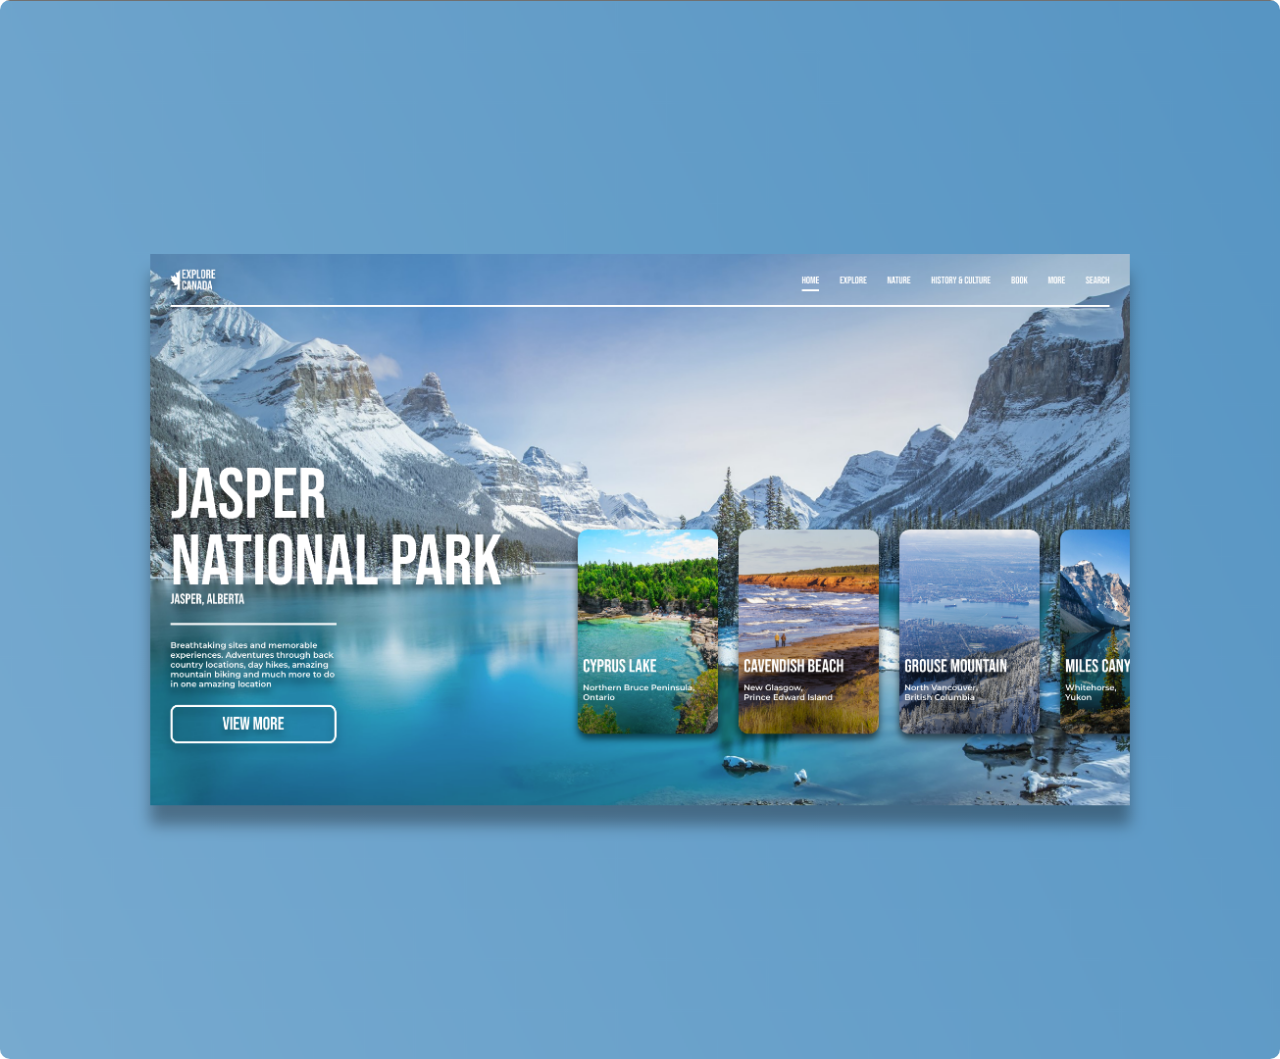
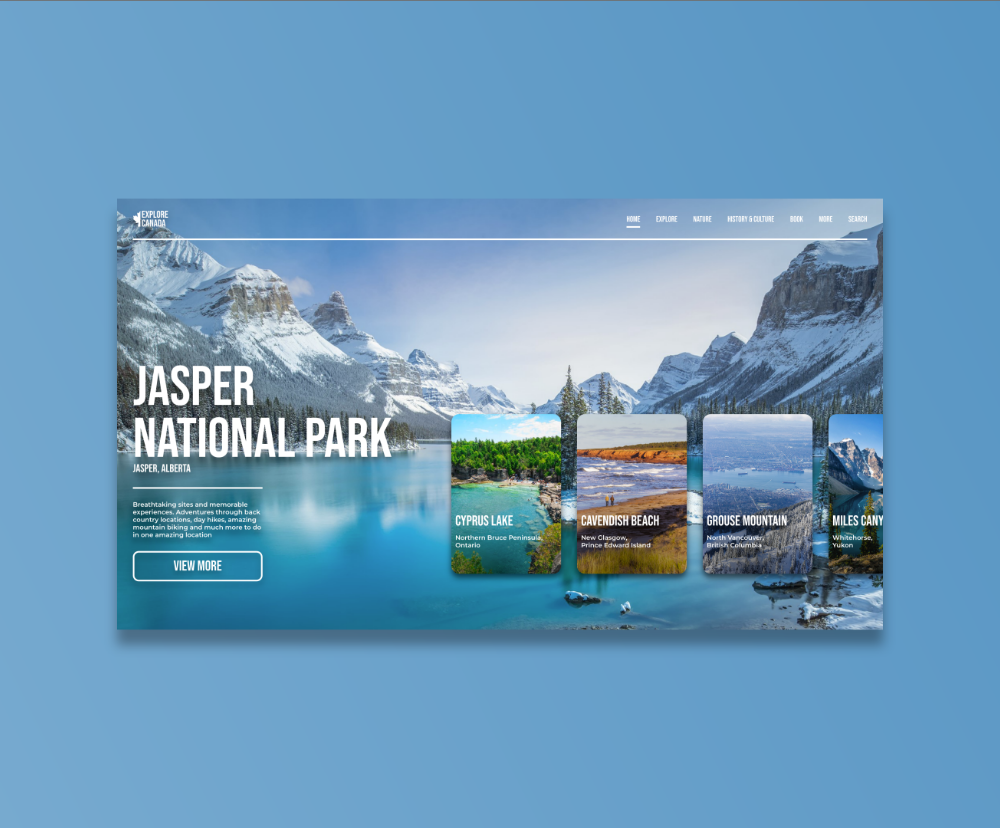
adds changes to images and all grid layouts

diff --git a/css/main.css b/css/main.css
@@ -7,7 +7,7 @@
 /* defines all text properties */
 h1{
 	margin-top: 3rem;
-    font-size: 1.3rem;
+    font-size: 1.25rem;
     font-weight: bold;
 	color: #2A2A2A;
 }
@@ -17,7 +17,7 @@ h2{
 	color: #2A2A2A;
 }
 p{
-    font-size: .8rem;
+    font-size: .0.875rem;
     line-height: normal;
 	color: #2A2A2A;
 }
@@ -39,13 +39,18 @@ body{
 	max-width: 10%;
 }
 
-
+.wrapper{
+	margin: 0 auto;
+    width: 95%;
+    background-color: transparent;
+}
 /* styles responsive images */
 img{
     max-width: 100%;
 }
 .c-img{
 	margin-top: 4rem;
+	border-radius: 0.2rem;
 	filter: drop-shadow(.4rem .4rem 0rem #00000016);
 }
 .desktop-arrow{
@@ -53,11 +58,10 @@ img{
 }
 .portfolio-content{
 	display: grid;
-	grid-auto-rows: 1fr
+	grid-auto-rows: 1fr;
 }
 .g-content{
-	font-size: .8rem;
-	margin-top: 2rem;
+	margin-top: 4rem;
 	background-color: #ffffff;
 	border-style: solid;
 	border-radius: .2rem;
@@ -75,6 +79,7 @@ img{
 }
 .button{
 	display: block;
+	font-size: 0.875rem;
     text-decoration: none;
 	font-weight: bold;
 	margin-bottom: .5rem;
@@ -91,7 +96,8 @@ img{
     background-image: url(../images/footer-background.png);
     background-size: cover;
     background-position-y: center;
-    padding: 1rem;
+	justify-content: center;
+	aspect-ratio: 16/9;
 }
 .footer-img h2{
 	color: #ffffff;
@@ -138,44 +144,74 @@ footer{
     padding-right: .5rem;
 }
 /* about page */
-.about-content{
+.about-img{
+	border-radius: 0.2rem;
+	filter: drop-shadow(.4rem .4rem 0rem #00000016);
+}
+.portrait-img{
+	margin-top: 4rem;
+}
+.a-content{
+	background-color: #ffffff;
+	border-style: solid;
+	border-radius: .2rem;
+	border-color: #9825FB;
+	filter: drop-shadow(.4rem .4rem 0rem #00000016);
+	text-align: center;
+}
+.grid-1{
 	display: grid;
-	grid-template-columns: 1fr 1fr;
+	grid-template-columns: repeat(4, 1fr);
+	grid-auto-rows: 1fr;
+	grid-auto-columns: 1fr;
+	grid-gap: 1rem;
 }
 .a-item1{
-	grid-column: 1 / span 2;
-	grid-row: 1;
+	grid-column: 1 / span 4;
+	grid-row: 1 / span 4;
 }
 .a-item2{
-	grid-column: span 2;
+	grid-column: 1 / span 4;
+	grid-row: 3;
 }
 .a-item3{
-	grid-column: 1;
-	grid-row: 3;
+	grid-column: 1 / span 2;
+	grid-row: 4;
 }
 .a-item4{
-	grid-column: 2;
-	grid-row: 3;
-}
-.a-item5{
-	grid-column: span 2;
-}
-.a-content5{
-	grid-column: span 2
+	grid-column: 3 / span 2;
+	grid-row: 4;
 }
 .a-content1{
+	display: none;
 	order: 10;
 }
 .a-content2{
+	display: none;
 	order: 11;
 }
 .a-content3{
+	display: none;
 	order: 12;
 }
 .a-content4{
+	display: none;
 	order: 13;
 }
-
+.grid-2{
+	display: grid;
+	grid-template-columns: repeat(2, 1fr);
+	grid-auto-columns: 1fr;
+	grid-gap: 2rem;
+}
+.a-item5{
+	grid-column: 1 / span 2;
+	grid-row: 1 / span 2;
+}
+.a-content5{
+	grid-column: 1 / span 2;
+	grid-row: 3 / span 2;
+}
 
 /* Tablet Viewport*/
 @media screen and (min-width: 600px){
@@ -183,7 +219,7 @@ footer{
         margin:0;
         padding: 0;
     }
-	h1{
+	/* h1{
 		margin-top: 3rem;
 		font-size: 1.8rem;
 		font-weight: bold;
@@ -198,11 +234,11 @@ footer{
 		font-size: 1.1rem;
 		line-height: normal;
 		color: #2A2A2A;
-	}
-	.button{
+	} */
+	/* .button{
 		font-size: 1.1rem;
-	}
-	.f-button{
+	} */
+	/* .f-button{
 		font-size: 1.1rem;
 		margin-right: 8rem;
 		margin-left: 8rem;
@@ -210,15 +246,16 @@ footer{
 	.footer-img h2{
 		margin-right: 8rem;
 		margin-left: 8rem;
-	}
-	.footer-img{
+	} */
+	/* .footer-img{
 		height: 14rem;
-	}
+	} */
 }
 /* about page */
-.about-content{
+/* .grid-1{
 	display: grid;
 	grid-template-columns: repeat(4, 1fr);
+	grid-auto-rows: 1fr;
 }
 .a-item1{
 	grid-column: 1 / span 2;
@@ -255,13 +292,13 @@ footer{
 }
 .a-content4{
 	order: 13;
-}
-@media screen and (min-width: 768px){
+} */
+@media screen and (min-width: 600px){
     *{
         margin:0;
         padding: 0;
     }
-	.container{
+	.p-container{
 	display: grid;
 	grid-template-columns: 1fr 1fr;
 	grid-gap: 1rem;
@@ -314,5 +351,47 @@ footer{
 	}
 	.g-content8{
 		order: 15;
+	}
+/* about page */
+	.grid-1{
+		display: grid;
+		grid-template-columns: repeat(8, 1fr);
+		grid-auto-rows: auto;
+		grid-auto-columns: auto;
+		grid-gap: 1rem;
+	}
+	.a-item1{
+		grid-column: 1 / span 4;
+		grid-row: 1 / span 4;
+	}
+	.a-item2{
+		grid-column: 5 / span 4;
+		grid-row: 1;
+	}
+	.a-item3{
+		grid-column: 5 / span 2;
+		grid-row: 2 / span 2;
+	}
+	.a-item4{
+		grid-column: 7 / span 2;
+		grid-row: 2 / span 2;
+	}
+	.portrait-img{
+		margin-top: 0;
+	}
+	.grid-2{
+		display: grid;
+		grid-template-columns: repeat(4, 1fr);
+		grid-auto-columns: auto;
+		grid-gap: 1rem;
+		margin-top: 4rem;
+	}
+	.a-item5{
+		grid-column: 1 / span 2;
+		grid-row: 1 / span 2;
+	}
+	.a-content5{
+		grid-column: 3 / span 2;
+		grid-row: 1 / span 2;
 	}
 }

diff --git a/about.html b/about.html
@@ -52,48 +52,52 @@
       <i class="fa-solid fa-arrow-down"></i>
     </div>
 
-    <div class="container about-content">
+    <div class="about-content wrapper">
+      <div class="grid-1">
       <!-- content item 1 -->
       <div class="g-item a-item1">
-        <img class="c-img about-img" src="images/about/a-lego.png" alt="display picture of lego bricks">
+        <img class="about-img" src="images/about/a-lego.png" alt="display picture of lego bricks">
       </div>
-      <div class="g-content a-content1">
+      <div class="a-content a-content1">
         <h2>Building Lego:</h2>
         <p>From a young age I’ve found relaxation and enjoyment building new Lego sets, creating my own originals and stop motion.</p>
       </div>
       <!-- content item 2 -->
       <div class="g-item a-item2">
-        <img class="c-img" src="images/about/a-bike.png" alt="display picture of a bike">
+        <img class="about-img" src="images/about/a-bike.png" alt="display picture of a bike">
       </div>
-      <div class="g-content a-content2">
+      <div class="a-content a-content2">
         <h2>Being Active:</h2>
         <p>I love going to the gym, biking, playing soccer and hockey. Staying active is a key part of my life and well-being.</p>
       </div>
        <!-- content item 3 -->
        <div class="g-item a-item3">
-        <img class="c-img" src="images/about/a-camera.png" alt="display image of a camera">
+        <img class="about-img" src="images/about/a-camera.png" alt="display image of a camera">
       </div>
-      <div class="g-content a-content3">
+      <div class="a-content a-content3">
         <h2>Photography & Videography:</h2>
         <p>I enjoy shooting personal projects and private events.</p>
       </div>
       <!-- content item 4 -->
       <div class="g-item a-item4">
-        <img class="c-img" src="images/about/a-guitar.png" alt="concept picture of a guitar">
+        <img class="about-img" src="images/about/a-guitar.png" alt="concept picture of a guitar">
       </div>
-      <div class="g-content a-content4">
+      <div class="a-content a-content4">
         <h2>Guitar:</h2>
         <p>Over the last four years I have been teaching myself how to play.</p>
       </div>
+    </div><!-- closes grid 1 -->
       <!-- content item 5 -->
+      <div class="grid-2">
       <div class="g-item a-item5">
-        <img class="c-img" src="images/about/Portrait.jpg" alt="picture of mackenzie roe">
+        <img class="about-img portrait-img" src="images/about/Portrait.jpg" alt="picture of mackenzie roe">
       </div>
-      <div class="g-content a-content5">
+      <div class="a-g-content a-content5">
         <p>I’m a UX/UI and Web Designer currently located in Ottawa, Ontario!</p>
         <p>My career experiences are just beginning… As a Brock University graduate in Interactive Arts and Science and a current Interactive Media Design (Co-Op) student at Algonquin College. My career is focused around UX/UI and Web Design.</p>
         <p>I believe the technical skills I’ve developed through my education and freelancing opportunities have been influential in my understanding of proper design techniques. I truly enjoy all aspects of design, from initial user research and ideation, low and high-fidelity prototypes to the final website.</p>
       </div>
+    </div><!-- closes grid-2 -->
   </div>
   </main>
   <footer>

diff --git a/index.html b/index.html
@@ -53,7 +53,7 @@
       <i class="fa-solid fa-arrow-down"></i>
     </div>
 
-    <div class="container portfolio-content">
+    <div class="p-container portfolio-content wrapper">
       <!-- content item 1 -->
       <div class="g-item g-item1">
         <img class="c-img" src="images/home/swc-ui.png" alt="display picture of website concept">
@@ -72,8 +72,8 @@
       <div class="g-content g-content2">
         <h2>Web Development.</h2>
         <p>After user extensive user testing, I developed the website with HTML & CSS using Visual Studio Code. Feel free to inspect elements to view my code and comments.</p>
-        <a class="button" class="btn btn-primary" role="button"  href="https://github.com/roe00021/mtm6201-midterm" target="_blank">GITHUB REPOSITORY</a>
-        <a class="button" class="btn btn-primary" role="button"  href="https://roe00021.github.io/mtm6201-midterm/" target="_blank">WEBSITE LINK</a>
+        <a class="button" role="button"  href="https://github.com/roe00021/mtm6201-midterm" target="_blank">GITHUB REPOSITORY</a>
+        <a class="button" role="button"  href="https://roe00021.github.io/mtm6201-midterm/" target="_blank">WEBSITE LINK</a>
       </div>
        <!-- content item 3 -->
        <div class="g-item g-item3">
